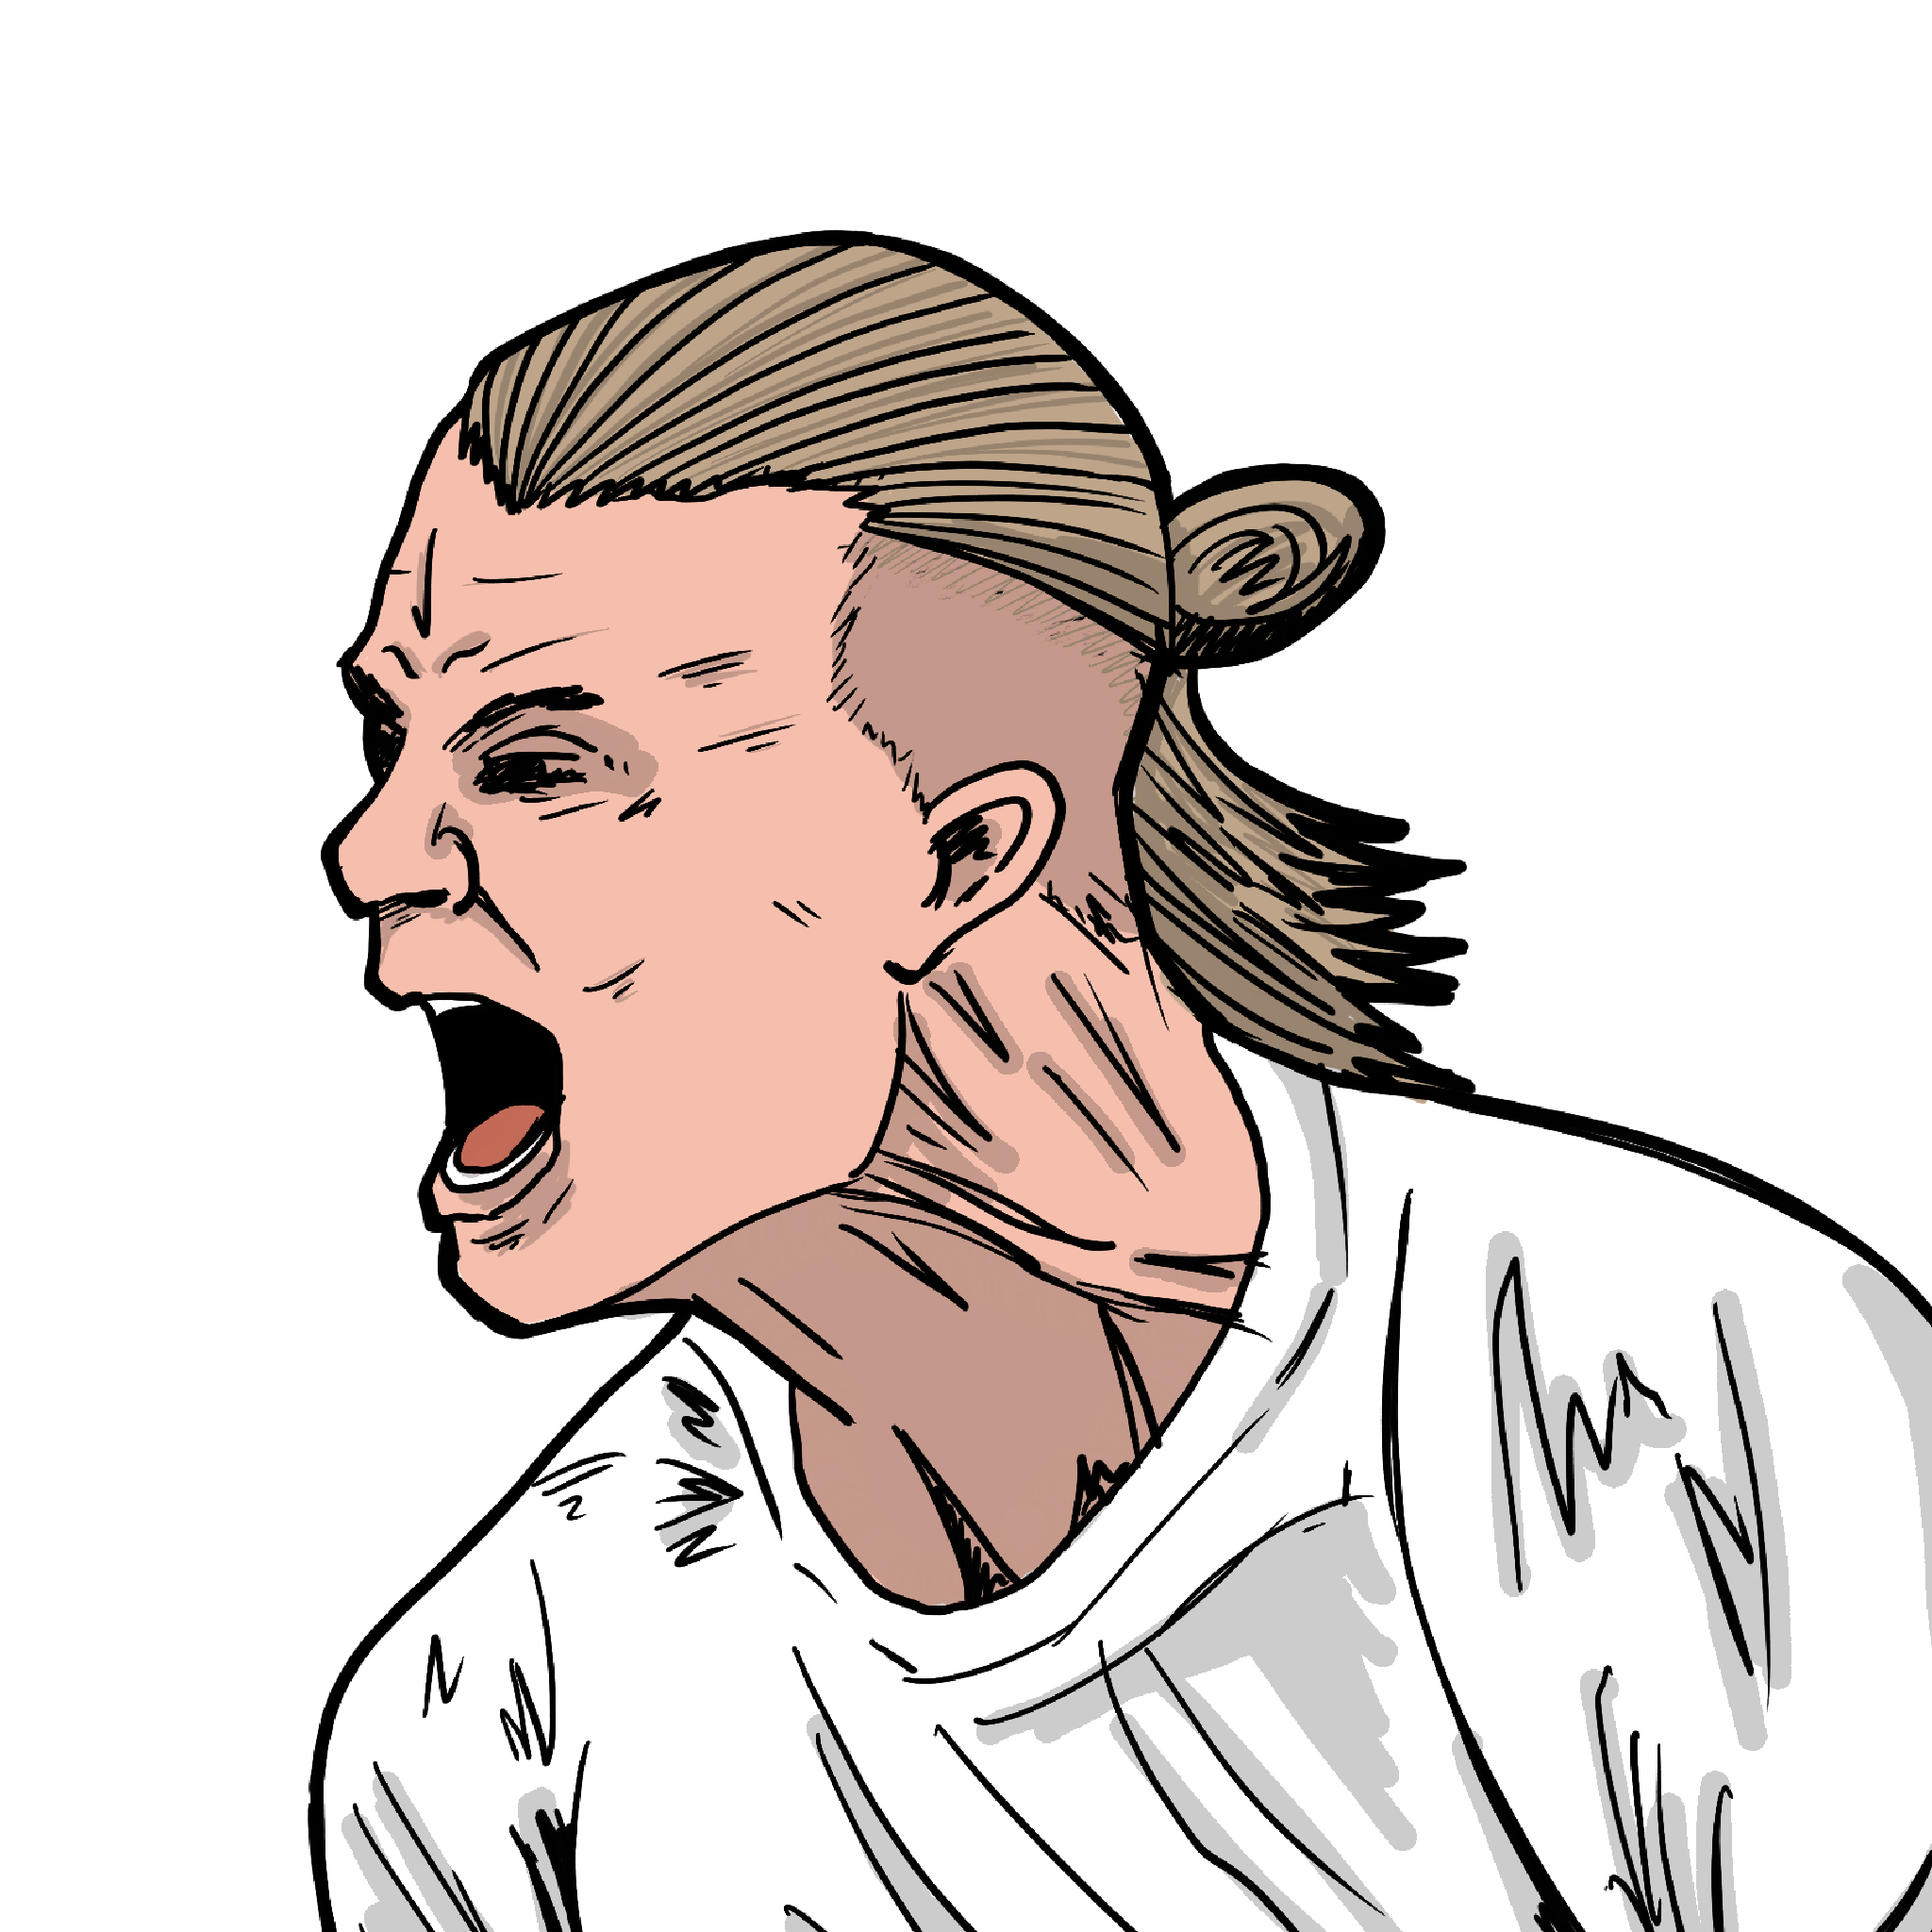
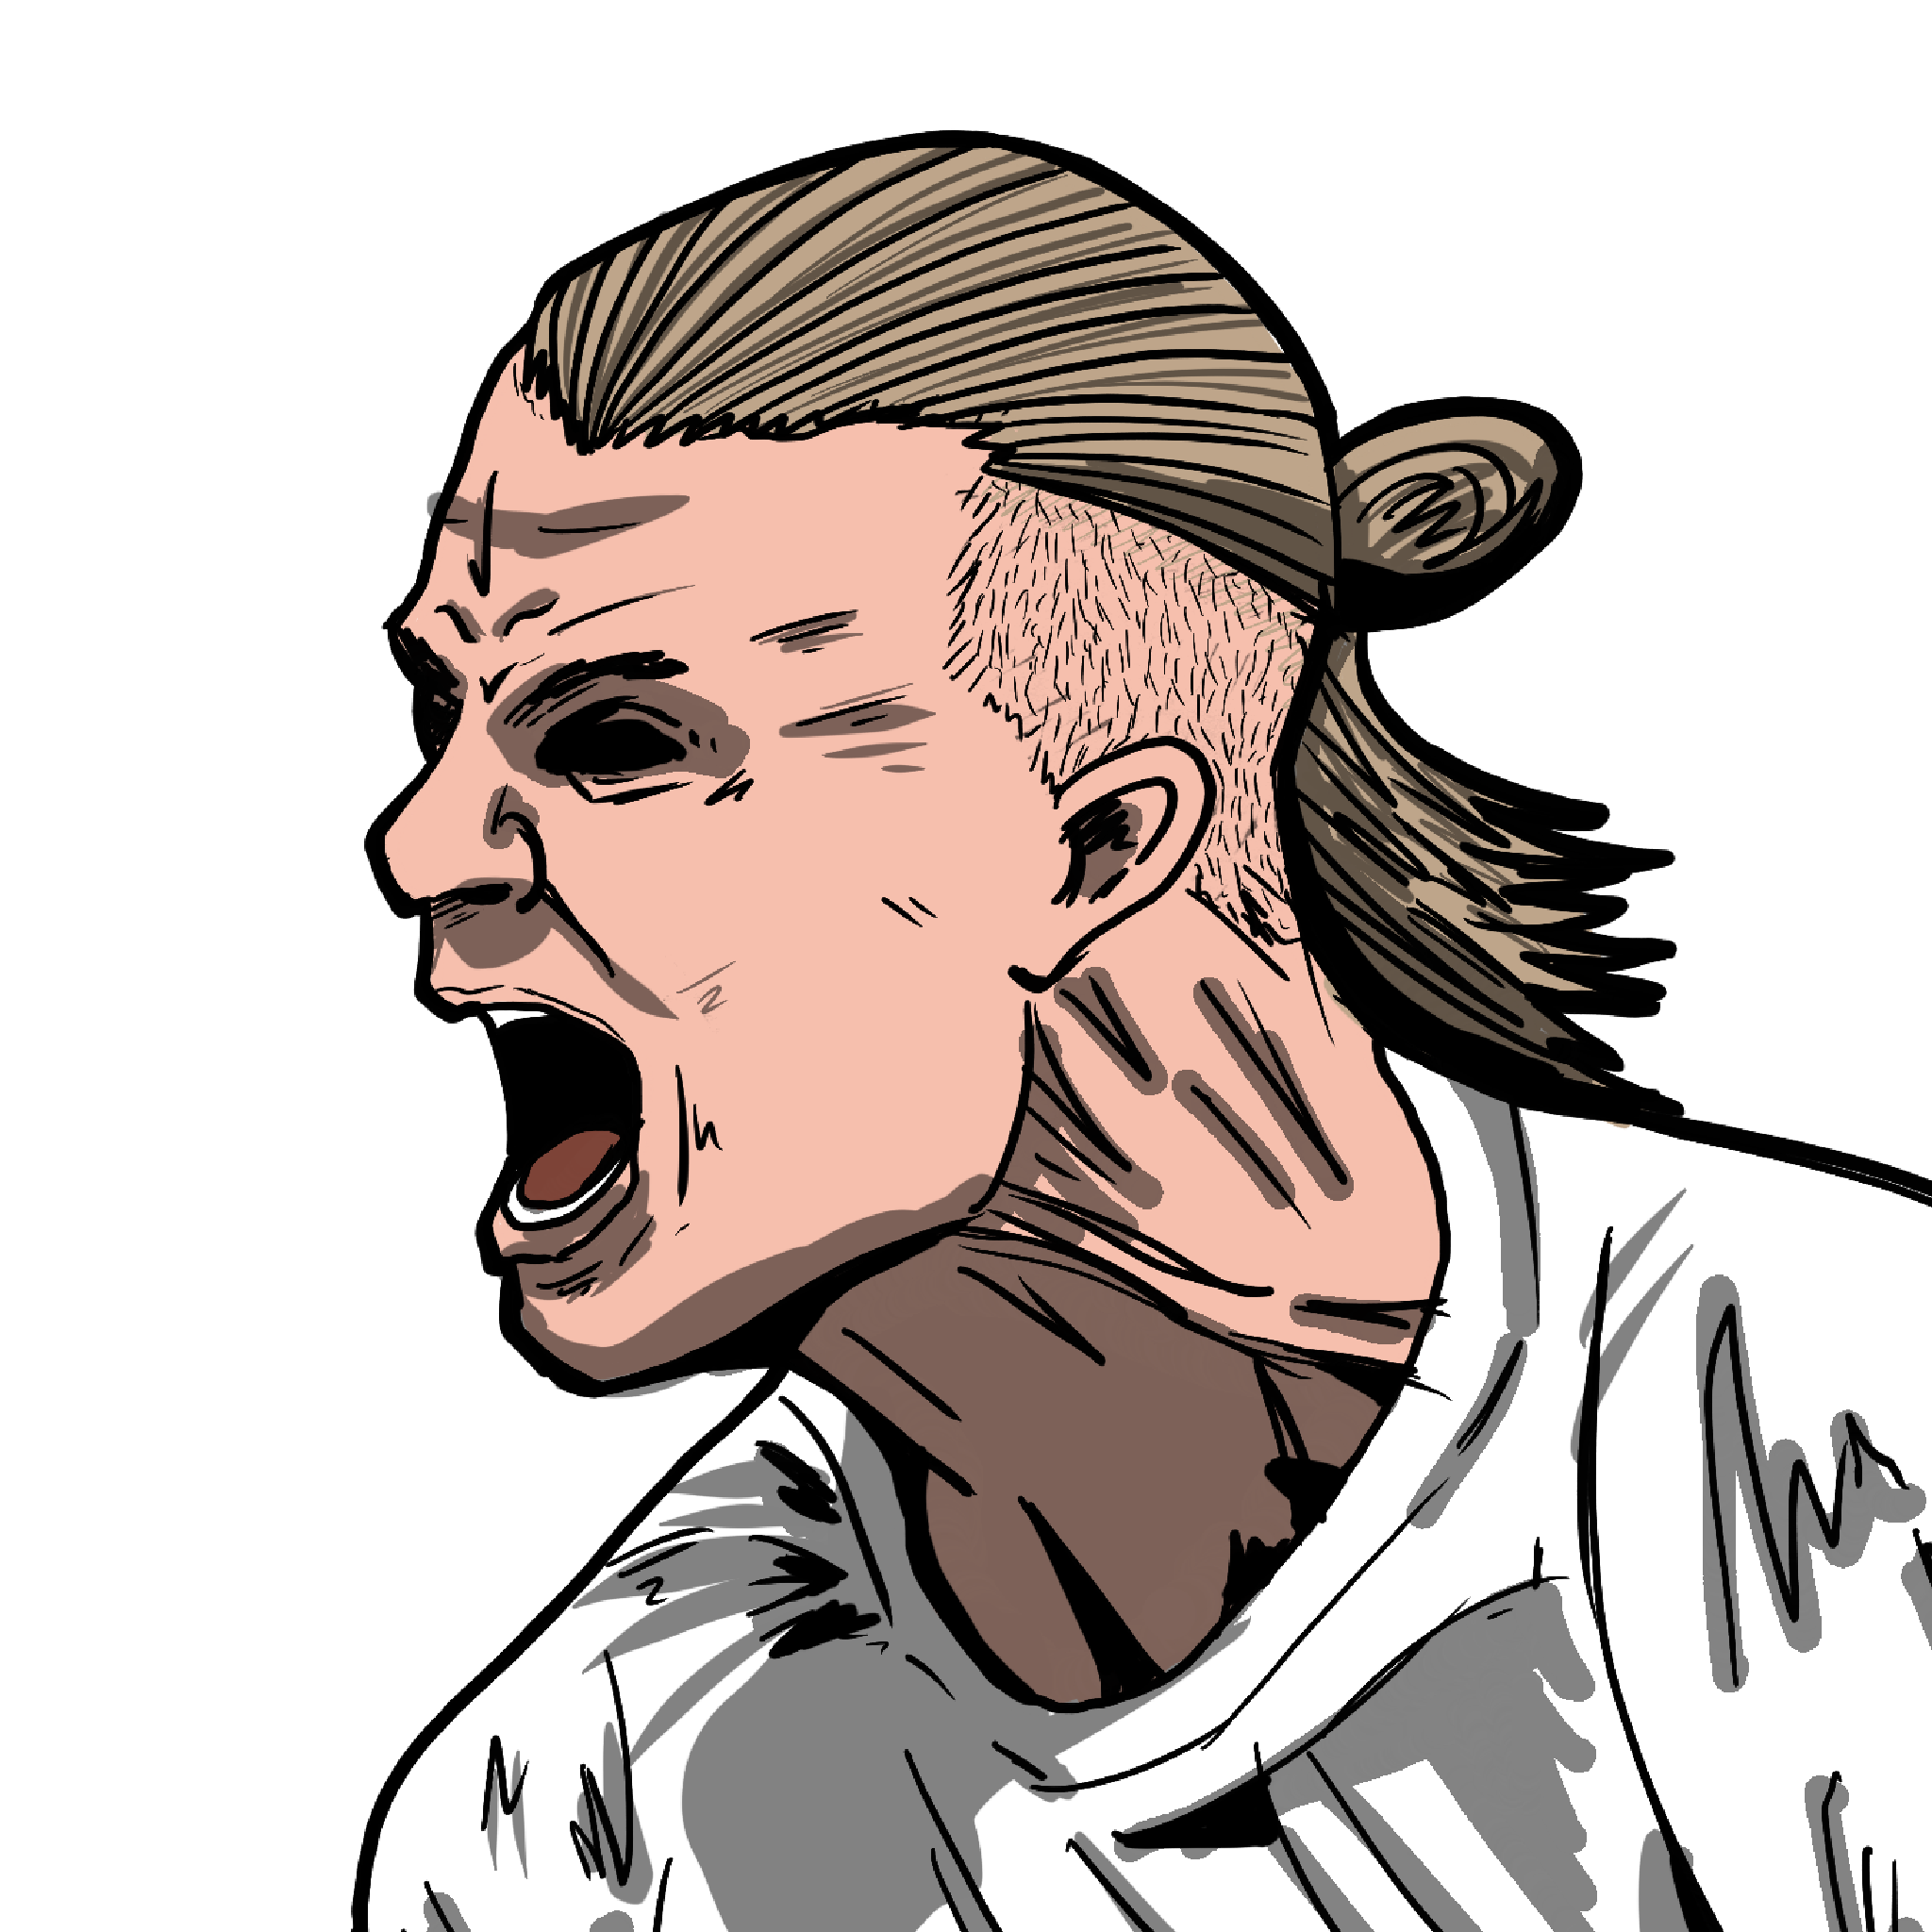
UI polish: Sky skin, Classic Dark rework, layout fixes
- New Sky skin: deep navy/royal blue/red palette with 2000s-era gradients,
  glossy panel highlights, red simulate button, red-line header shadow
- Classic Dark: reworked card colours (#0B2E1C → #1A5234) so panels have
  visible depth against the near-black background; gold borders now read
  against green rather than floating on black
- Background pattern contrast reduced on both Classic and Classic Dark
- Round selector constrained to central column width with border
- Nav bar logo vertically centred via flexbox on desktop
- Match stat panels fixed width (220px) to prevent layout shift on content change
- Badge/counter shadow on team and report modal badges
- Modal action buttons (NEW MATCH / REPLAY) consistent min-width

diff --git a/styles.css b/styles.css
@@ -43,12 +43,15 @@ label {
 header {
   position: relative;
   height: 80px;
-background-color: #1A6437;
+  background-color: #1A6437;
   padding: 20px;
   color: var(--text-colour);
   text-align: center;
   font-size: 24px;
   font-weight: bold;
+  display: flex;
+  align-items: center;
+  justify-content: center;
 }
 
 .skin-nav {
@@ -183,6 +186,7 @@ background-color: #1A6437;
   height: 100px;
   margin-top: 10px;
   margin-bottom: 10px;
+  box-shadow: 0 4px 14px rgba(0,0,0,0.45), 0 1px 4px rgba(0,0,0,0.3);
 }
 
 .team-panel select {
@@ -239,15 +243,21 @@ background-color: #1A6437;
   flex-direction: column;
   align-items: stretch;
   gap: 20px;
+  width: 220px;
+  flex-shrink: 0;
 }
 
 .round-select {
   display: flex;
   align-items: center;
   justify-content: center;
-  padding: 10px;
+  padding: 8px;
   font-weight: bold;
-  margin: 0;
+  margin: 0 auto;
+  max-width: 260px;
+  width: 100%;
+  border: 2px solid var(--border);
+  border-radius: 4px;
 }
 
 .round-select select {
@@ -462,6 +472,10 @@ footer {
   justify-content: center;
 }
 
+#reportHomeBadge, #reportAwayBadge {
+  box-shadow: 0 4px 14px rgba(0,0,0,0.45), 0 1px 4px rgba(0,0,0,0.3);
+}
+
 .result p {
   font-weight: bold;
   margin-top: 30px;
@@ -483,6 +497,11 @@ footer {
   gap: 12px;
   margin-top: 20px;
   flex-wrap: wrap;
+  width: 100%;
+}
+
+.modal-buttons .report-button {
+  min-width: 130px;
 }
 
 .report-button {
@@ -1331,8 +1350,8 @@ body[data-theme="classic"] {
     -50deg,
     #1a6437 0px,
     #1a6437 135px,
-    #1f7540 135px,
-    #1f7540 270px
+    #1c6b3b 135px,
+    #1c6b3b 270px
   );
   background-color: #1a6437;
 }
@@ -1345,16 +1364,22 @@ body[data-theme="classic"] {
 
 /* ═══════════════════════════════════════════════════════════
    CLASSIC DARK SKIN
-   Same stripe pattern, deep night-green base, gold highlights
+   Dark version of Classic — same palette shifted to night values.
+   ── Palette ──────────────────────────────────────────────
+   Background  #061912   near-black stage
+   Card        #0B2E1C   dark forest green (gradient dark end)
+   Soft        #1A5234   medium-dark green (gradient light end)
+   Strong      #AAA54A   gold — borders, accent, selection
+   White       #ffffff   text
 ═══════════════════════════════════════════════════════════ */
 [data-theme="classic-dark"] {
-  --main-dark:     #061912;
-  --main-light:    #0F2D1D;
+  --main-dark:     #0B2E1C;
+  --main-light:    #1A5234;
   --text-colour:   #FFFFFF;
   --border:        #AAA54A;
   --accent:        #AAA54A;
   --accent-subtle: rgba(170, 165, 74, 0.2);
-  --accent-glow:   rgba(170, 165, 74, 0.6);
+  --accent-glow:   rgba(170, 165, 74, 0.5);
   --accent-gold:   #AAA54A;
   --overlay-bg:    rgba(3, 10, 6, 0.82);
 }
@@ -1364,8 +1389,8 @@ body[data-theme="classic-dark"] {
     -50deg,
     #061912 0px,
     #061912 135px,
-    #0A2218 135px,
-    #0A2218 270px
+    #081614 135px,
+    #081614 270px
   );
   background-color: #061912;
 }
@@ -1377,6 +1402,95 @@ body[data-theme="classic-dark"] {
 [data-theme="classic-dark"] .team-select,
 [data-theme="classic-dark"] .round-dropdown {
   background-color: #061912;
+}
+
+/* ═══════════════════════════════════════════════════════════
+   SKY SKIN
+   Activated by: data-theme="sky" on <body>
+   ── Palette ──────────────────────────────────────────────
+   Background  #000322   deep navy stage
+   Mid         #193686   royal blue — card gradient light end
+   Contrast    #BF0807   red — borders, simulate button, accents
+   White       #ffffff   text
+═══════════════════════════════════════════════════════════ */
+[data-theme="sky"] {
+  --main-dark:     #000322;
+  --main-light:    #193686;
+  --text-colour:   #ffffff;
+  --border:        #bf0807;
+  --accent:        #bf0807;
+  --accent-subtle: rgba(191, 8, 7, 0.15);
+  --accent-glow:   rgba(191, 8, 7, 0.45);
+  --accent-gold:   #ffffff;
+  --overlay-bg:    rgba(0, 3, 34, 0.78);
+}
+
+body[data-theme="sky"] {
+  background-image:
+    radial-gradient(ellipse 140% 45% at 50% 0%, rgba(25, 54, 134, 0.28) 0%, transparent 65%),
+    repeating-linear-gradient(
+      -50deg,
+      #000322 0px,
+      #000322 135px,
+      #000928 135px,
+      #000928 270px
+    );
+  background-color: #000322;
+}
+
+[data-theme="sky"] header {
+  background: linear-gradient(180deg, #1e4aaa 0%, #193686 55%, #0e245c 100%);
+  box-shadow: 0 3px 0 #bf0807, 0 5px 16px rgba(0, 3, 34, 0.7);
+}
+
+[data-theme="sky"] .team-panel {
+  background:
+    linear-gradient(180deg, rgba(255,255,255,0.09) 0%, rgba(255,255,255,0) 45%),
+    linear-gradient(155deg, #1e3d99 0%, #040e40 70%);
+  box-shadow: 0 4px 24px rgba(0, 3, 34, 0.7), inset 0 1px 0 rgba(255,255,255,0.12);
+}
+
+[data-theme="sky"] .modal-content {
+  background:
+    linear-gradient(180deg, rgba(255,255,255,0.08) 0%, rgba(255,255,255,0) 35%),
+    linear-gradient(155deg, #1e3d99 0%, #040e40 70%);
+  box-shadow: 0 8px 48px rgba(0, 3, 34, 0.9);
+}
+
+[data-theme="sky"] .match-info-modal-content {
+  background:
+    linear-gradient(180deg, rgba(255,255,255,0.08) 0%, rgba(255,255,255,0) 35%),
+    linear-gradient(155deg, #1e3d99 0%, #040e40 70%);
+  box-shadow: 0 8px 48px rgba(0, 3, 34, 0.9);
+}
+
+[data-theme="sky"] .simulate-btn {
+  background: linear-gradient(180deg, #e8201f 0%, #bf0807 55%, #880000 100%);
+  border: none;
+  box-shadow: 0 3px 16px rgba(191, 8, 7, 0.55), inset 0 1px 0 rgba(255,255,255,0.2);
+}
+
+[data-theme="sky"] .simulate-btn:hover {
+  background: linear-gradient(180deg, #ff3332 0%, #d40a09 55%, #9e0000 100%);
+  color: #ffffff;
+  border: none;
+  box-shadow: 0 5px 20px rgba(191, 8, 7, 0.75), inset 0 1px 0 rgba(255,255,255,0.25);
+}
+
+[data-theme="sky"] .report-button {
+  background: linear-gradient(180deg, #1a3d9e 0%, #0d2060 100%);
+  border-color: #bf0807;
+  box-shadow: inset 0 1px 0 rgba(255,255,255,0.1);
+}
+
+[data-theme="sky"] .report-button:hover {
+  background: linear-gradient(180deg, #2450b8 0%, #193686 100%);
+  color: #ffffff;
+}
+
+[data-theme="sky"] .team-select,
+[data-theme="sky"] .round-dropdown {
+  background-color: #000322;
 }
 
 /* ═══════════════════════════════════════════════════════════

diff --git a/index.html b/index.html
@@ -31,6 +31,7 @@
     <div class="skin-dropdown hidden" id="skinDropdown">
       <button class="skin-option" data-skin="classic">Classic</button>
       <button class="skin-option" data-skin="classic-dark">Classic Dark</button>
+      <button class="skin-option" data-skin="sky">Sky</button>
       <button class="skin-option skin-option--locked" data-skin="retro">Retro <span class="skin-soon-tag">soon</span></button>
       <button class="skin-option skin-option--locked" data-skin="dark">Dark <span class="skin-soon-tag">soon</span></button>
     </div>
@@ -260,7 +261,7 @@
 
     <div class="modal-buttons">
       <button class="report-button" id="closeReport">NEW MATCH</button>
-      <button class="report-button" id="replayButton">REPLAY MATCH</button>
+      <button class="report-button hidden" id="replayButton">REPLAY MATCH</button>
     </div>
 
   </div>

diff --git a/script.js b/script.js
@@ -303,6 +303,7 @@ function toggleEarnings() {
 
 function closeModal() {
   document.getElementById('matchReportModal').classList.add('hidden');
+  document.getElementById('replayButton').classList.add('hidden');
   document.getElementById('matchEarningsSection').style.display = '';
   document.getElementById('earningsToggleBtn').textContent = 'Earnings ▼';
   selectedHeroesHome = [];
@@ -796,7 +797,7 @@ function advanceDemoPanel() {
 
 function setSkin(skin) {
   document.body.dataset.theme = skin;
-  const labels = { classic: 'Classic', 'classic-dark': 'Classic Dark' };
+  const labels = { classic: 'Classic', 'classic-dark': 'Classic Dark', sky: 'Sky' };
   document.getElementById('skinToggle').textContent = (labels[skin] || skin) + ' ▾';
   document.querySelectorAll('.skin-option[data-skin]').forEach(btn => {
     btn.style.display = btn.dataset.skin === skin ? 'none' : '';